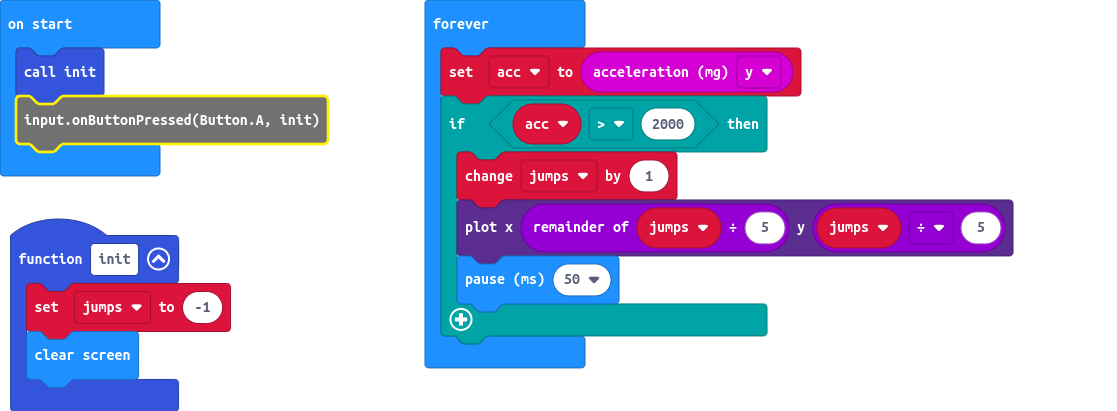
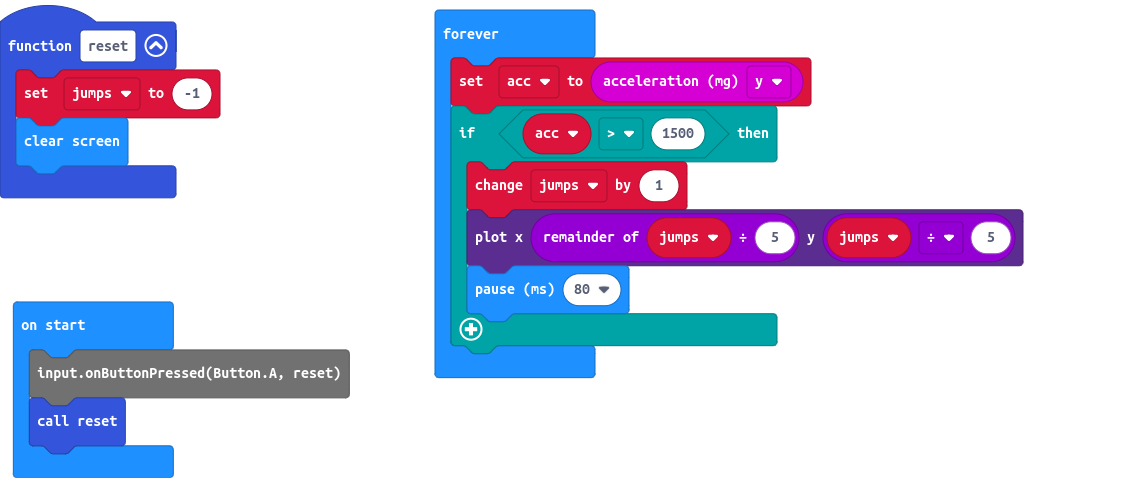
Decrease acceleration limit to make the counter more sensitive

diff --git a/main.ts b/main.ts
@@ -1,16 +1,16 @@
-function init () {
+function reset () {
     jumps = -1
     basic.clearScreen()
 }
 let acc = 0
 let jumps = 0
-init()
-input.onButtonPressed(Button.A, init)
+input.onButtonPressed(Button.A, reset)
+reset()
 basic.forever(function () {
     acc = input.acceleration(Dimension.Y)
-    if (acc > 2000) {
+    if (acc > 1500) {
         jumps += 1
         led.plot(jumps % 5, jumps / 5)
-        basic.pause(50)
+        basic.pause(80)
     }
 })
